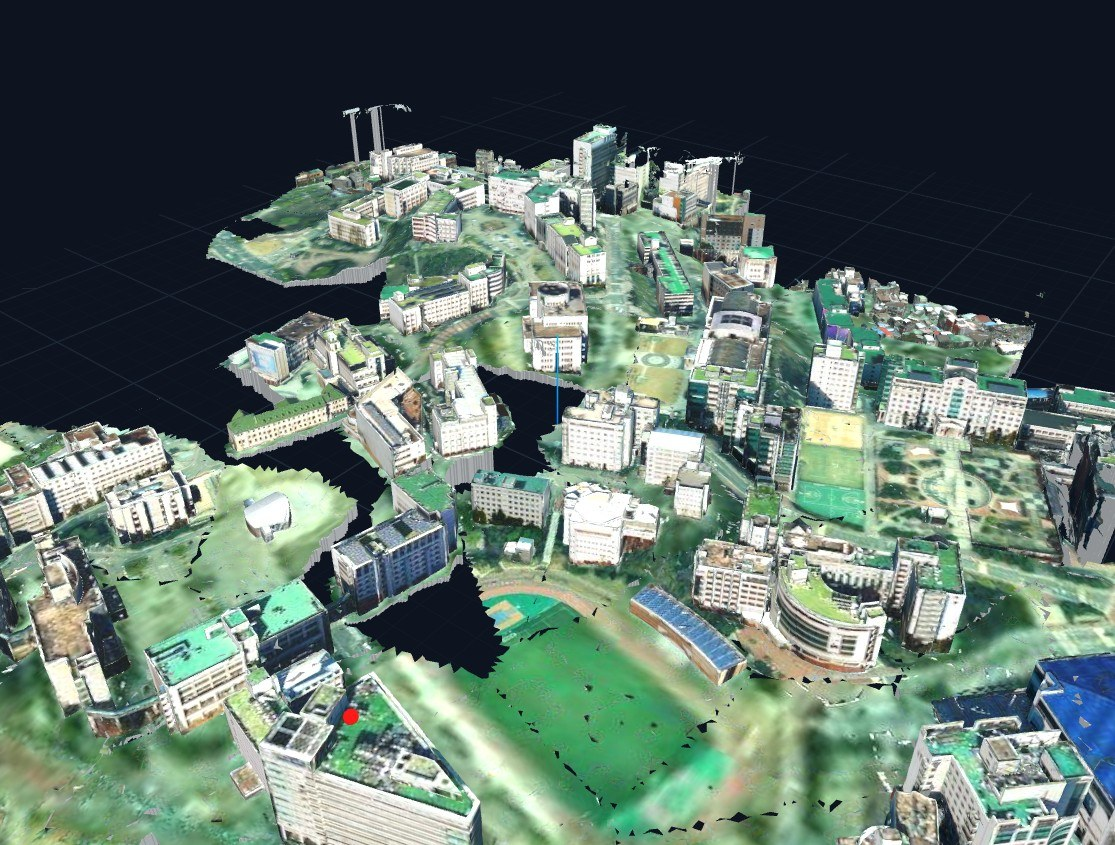
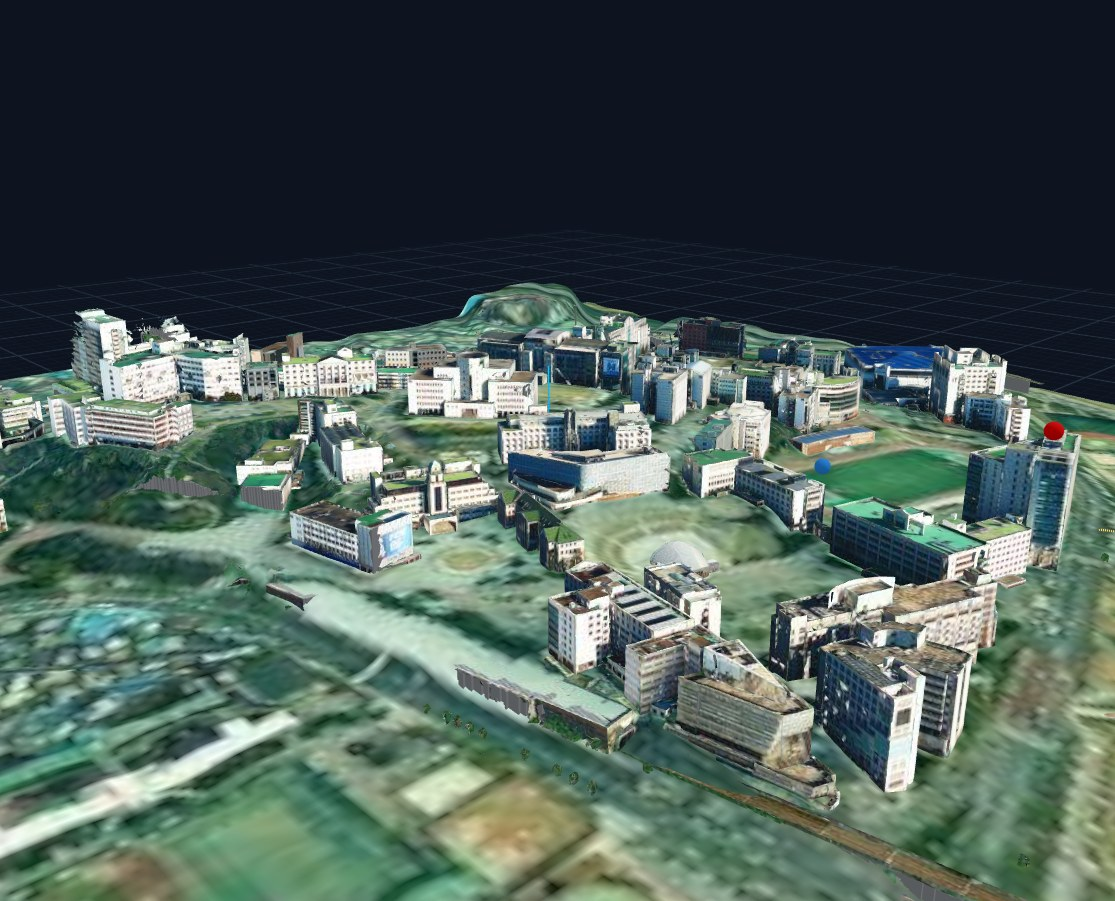
New HYU campus captures (continuous terrain) + trajectory playback video
- rays_demo.jpg: user's capture of a real 39-path Sionna solve on the
  re-imported campus (one TX, two RXs, LOS/reflection overlays)
- hero_campus.jpg / campus_top.jpg: re-captured from the new import with
  continuous terrain (replaces the fragmented-block captures)
- trajectory.mp4 (852 KB, H.264 web-encoded from the screen recording):
  fills the hidden trajectory section on the site
- captions updated; raw capture drops in website/assets gitignored

diff --git a/website/en.html b/website/en.html
@@ -183,10 +183,10 @@ footer{margin-top:40px;border-top:1px solid var(--line)}
     <h2>In action</h2>
     <h3 class="sec">Real scenes, really running</h3>
     <div class="gallery">
-      <figure><img src="assets/rays_demo.jpg" alt="Sionna RT ray tracing — LOS and reflection paths drawn between a rooftop TX and a street-level RX">
-        <figcaption><b>Sionna RT ray tracing</b> — LOS (cyan) and reflection (magenta) paths between a rooftop TX and a street-level RX, drawn right on the scene.</figcaption></figure>
-      <figure><img src="assets/campus_top.jpg" alt="Top-down orthographic view of the textured campus twin">
-        <figcaption><b>Campus twin, orthographic</b> — 62 aerial-textured blocks with view snaps (1/3/7) and an infinite grid.</figcaption></figure>
+      <figure><img src="assets/rays_demo.jpg" alt="Sionna RT ray tracing on the campus twin — 39 paths between one TX and two RX devices">
+        <figcaption><b>Sionna RT ray tracing</b> — 39 paths (LOS cyan · reflections magenta) between one TX and two RXs on the campus twin, solved by the real Sionna backend.</figcaption></figure>
+      <figure><img src="assets/campus_top.jpg" alt="Top-down view of the textured campus twin with continuous terrain">
+        <figcaption><b>Campus twin, top-down</b> — aerial textures on continuous terrain, with view snaps (1/3/7) and an infinite grid.</figcaption></figure>
       <figure><img src="assets/sample_demo.jpg" alt="Sample demo scene with TX and RX devices">
         <figcaption><b>Sample Demo</b> — TX/RX placement, height-above-surface (AGL) editing; the tutorial scene runs on the Mock backend alone.</figcaption></figure>
       <figure><img src="assets/ftc_building.jpg" alt="Drone-mapped FTC building multi-view capture used by SEAM-Agent">
@@ -199,8 +199,8 @@ footer{margin-top:40px;border-top:1px solid var(--line)}
   <div class="wrap">
     <h2>Trajectory playback</h2>
     <h3 class="sec">RF metrics that follow a moving UE</h3>
-    <p class="lead">A UE moves along a terrain-draped trajectory while ray paths and received-signal
-      metrics update at every waypoint.</p>
+    <p class="lead">A real screen recording: a UE moves along a terrain-draped trajectory and the ray
+      paths re-solve at every position.</p>
     <video class="vid" controls muted playsinline preload="metadata" src="assets/trajectory.mp4"></video>
   </div>
 </section>

diff --git a/website/index.html b/website/index.html
@@ -183,10 +183,10 @@ footer{margin-top:40px;border-top:1px solid var(--line)}
     <h2>In action</h2>
     <h3 class="sec">실제로 돌아가는 장면들</h3>
     <div class="gallery">
-      <figure><img src="assets/rays_demo.jpg" alt="Sionna RT ray tracing — LOS and reflection paths drawn between a rooftop TX and a street-level RX">
-        <figcaption><b>Sionna RT 레이트레이싱</b> — 옥상 TX와 지상 RX 사이 LOS(시안)·반사(마젠타) 경로가 씬 위에 그대로 그려집니다.</figcaption></figure>
-      <figure><img src="assets/campus_top.jpg" alt="Top-down orthographic view of the textured campus twin">
-        <figcaption><b>캠퍼스 트윈 정사 뷰</b> — 항공 텍스처가 입혀진 62개 블록, 뷰 스냅(1/3/7)과 무한 그리드.</figcaption></figure>
+      <figure><img src="assets/rays_demo.jpg" alt="Sionna RT ray tracing on the campus twin — 39 paths between one TX and two RX devices">
+        <figcaption><b>Sionna RT 레이트레이싱</b> — 캠퍼스 트윈에서 TX 1기·RX 2기 사이 39개 경로(LOS 시안 · 반사 마젠타)를 실제 Sionna 백엔드로 솔브.</figcaption></figure>
+      <figure><img src="assets/campus_top.jpg" alt="Top-down view of the textured campus twin with continuous terrain">
+        <figcaption><b>캠퍼스 트윈 정사 뷰</b> — 항공 텍스처와 연속 지형, 뷰 스냅(1/3/7)과 무한 그리드.</figcaption></figure>
       <figure><img src="assets/sample_demo.jpg" alt="Sample demo scene with TX and RX devices">
         <figcaption><b>Sample Demo</b> — TX/RX 배치, 지표고도(AGL) 편집, Mock 백엔드만으로 완주하는 튜토리얼 씬.</figcaption></figure>
       <figure><img src="assets/ftc_building.jpg" alt="Drone-mapped FTC building multi-view capture used by SEAM-Agent">
@@ -199,8 +199,8 @@ footer{margin-top:40px;border-top:1px solid var(--line)}
   <div class="wrap">
     <h2>Trajectory playback</h2>
     <h3 class="sec">움직이는 UE를 따라가는 RF 지표</h3>
-    <p class="lead">지형을 따라 드레이프된 궤적 위로 UE가 이동하면서 각 지점의 레이 경로와
-      수신 지표가 갱신되는 모습입니다.</p>
+    <p class="lead">지형을 따라 드레이프된 궤적 위로 UE가 이동하며, 위치마다 레이 경로가
+      다시 풀리는 실제 화면 녹화입니다.</p>
     <video class="vid" controls muted playsinline preload="metadata" src="assets/trajectory.mp4"></video>
   </div>
 </section>